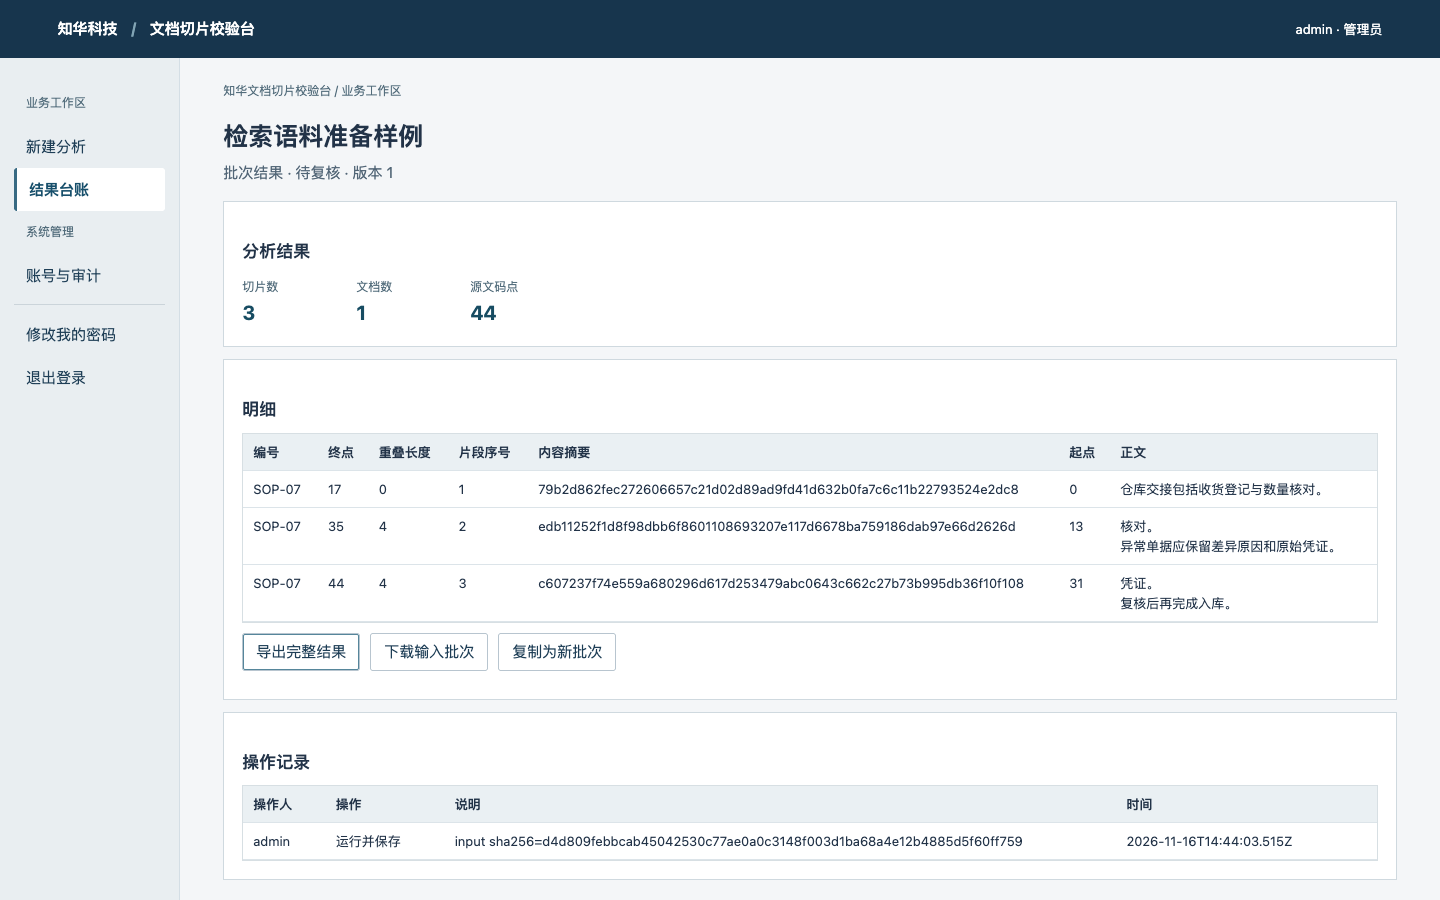
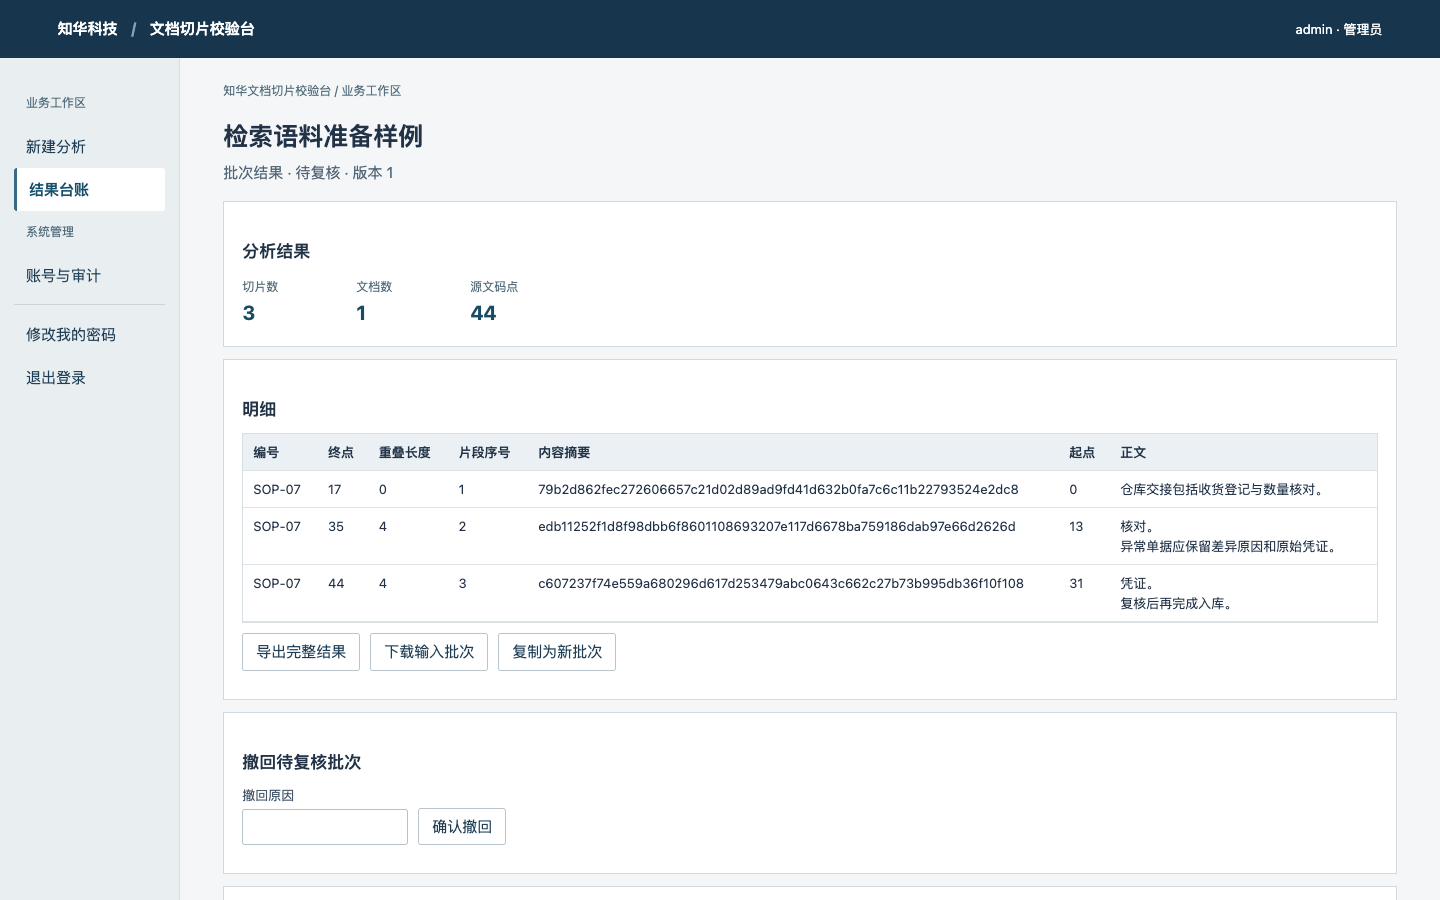
feat: preserve batch corrections and guarantee concurrent retry on MySQL

Changed region(s): [[0.1562, 0.8711, 0.9688, 0.9956], [0.1562, 0.84, 0.25, 0.9022], [0.7812, 0.8711, 0.8125, 0.9022]]

diff --git a/frontend/app.js b/frontend/app.js
@@ -1,4 +1,5 @@
 // 上海如静知华信息科技有限公司 · https://www.zhuatech.cn/
+import { readBatch } from "./batch-import.mjs";
 const $ = (id) => document.getElementById(id),
   cat = await fetch("/catalog.json").then((r) => r.json());
 let token = sessionStorage.getItem("workspace-token") || "",
@@ -10,7 +11,7 @@ let token = sessionStorage.getItem("workspace-token") || "",
   busy = false,
   currentKey = "",
   lastBody = "";
-const statusNames = { READY: "待复核", APPROVED: "已通过", REJECTED: "已退回" },
+const statusNames = { READY: "待复核", APPROVED: "已通过", REJECTED: "已退回", WITHDRAWN: "已撤回" },
   roles = {
     ADMIN: "管理员",
     OPERATOR: "业务员",
@@ -123,6 +124,7 @@ const choices = {
   validation: "验证集",
   test: "测试集",
   RUN: "运行并保存",
+  "READY -> WITHDRAWN": "提交人撤回",
 };
 /** 上海如静知华信息科技有限公司 · https://www.zhuatech.cn/ · 商业授权或定制开发请微信添加微信号zhuatech或zhuatech2进行咨询。 */
 function el(tag, text, cls) {
@@ -369,19 +371,11 @@ function entry(seed) {
       const f = picker.files[0];
       if (!f) return;
       if (f.size > 524288) throw Error("文件上限 512 KiB");
-      const b = JSON.parse(await f.text());
-      if (
-        !b ||
-        typeof b.title !== "string" ||
-        !Array.isArray(b.rows) ||
-        !b.rows.length ||
-        b.rows.length > 200 ||
-        !b.rows.every((r) => r && keys.every((k) => Object.hasOwn(r, k))) ||
-        !b.settings ||
-        !Object.keys(cat.settings).every((k) => Object.hasOwn(b.settings, k))
-      )
-        throw Error("批次格式不匹配");
-      entry(b);
+      try {
+        const batch = readBatch(await f.text(), cat);
+        entry(batch);
+        info("已载入 " + batch.rows.length + " 行，尚未提交。");
+      } finally { picker.value = ""; }
     });
   const end = el("div", null, "bar");
   area.append(end);
@@ -531,6 +525,23 @@ function show(r) {
   );
   if (user.role !== "VIEWER")
     bar.append(button("复制为新批次", () => entry(r.input)));
+  if (r.stage === "READY" && r.actor_id === user.id && user.role !== "VIEWER") {
+    const panel = box("撤回待复核批次");
+    const form = el("form", null, "bar");
+    panel.append(form);
+    const reason = field(form, "撤回原因", input("text"));
+    reason.required = true;
+    reason.maxLength = 1000;
+    form.append(el("button", "确认撤回"));
+    form.onsubmit = (event) => {
+      event.preventDefault();
+      act(async () => {
+        if (!reason.value.trim()) throw Error("请填写撤回原因");
+        show(await api("/runs/" + r.id + "/withdraw", "POST", {version: r.revision, note: reason.value}));
+        info("批次已撤回，原记录保留。需要更正时请复制为新批次。");
+      });
+    };
+  }
   const hist = box("操作记录");
   table(hist, ["actor", "action", "note", "created_at"], r.history);
   if (

diff --git a/backend/src/test/java/cn/zhuatech/chunkatlas/WorkflowTest.java b/backend/src/test/java/cn/zhuatech/chunkatlas/WorkflowTest.java
@@ -140,6 +140,49 @@ class WorkflowTest {
 
   /** 上海如静知华信息科技有限公司 · https://www.zhuatech.cn/ · 商业授权或定制开发请微信添加微信号zhuatech或zhuatech2进行咨询。 */
   @Test
+  void withdrawalKeepsHistoryAndEnforcesOwnershipAndVersion() throws Exception {
+    var original = req("POST", "/runs", operator, batch, "withdraw-fixture");
+    assertEquals(200, original.code());
+    String path = "/runs/" + original.value().get("id");
+    var valid = Map.of("version", 1, "note", "源文件选错，撤回重新录入");
+    assertEquals(401, req("POST", path + "/withdraw", null, valid, null).code());
+    assertEquals(404, req("POST", path + "/withdraw", other, valid, null).code());
+    assertEquals(403, req("POST", path + "/withdraw", admin, valid, null).code());
+    assertEquals(403, req("POST", path + "/withdraw", viewer, valid, null).code());
+    assertEquals(400, req("POST", path + "/withdraw", operator, Map.of("version",1,"note","  "), null).code());
+    assertEquals(409, req("POST", path + "/withdraw", operator, Map.of("version",2,"note","冲突"), null).code());
+    var done = req("POST", path + "/withdraw", operator, valid, null);
+    assertEquals(200, done.code());
+    assertEquals("WITHDRAWN", done.value().get("stage"));
+    assertEquals(2, done.value().get("revision"));
+    assertEquals(original.value().get("result"), done.value().get("result"));
+    assertEquals(original.value().get("input"), done.value().get("input"));
+    assertTrue(done.value().get("history").toString().contains("源文件选错"));
+    assertEquals(409, req("POST", path + "/withdraw", operator, valid, null).code());
+    assertEquals(409, req("POST", path + "/review", reviewer, Map.of("version",2,"state","REJECTED","note","too late"), null).code());
+    var list = req("GET","/runs?state=WITHDRAWN&scope=mine",operator,null,null);
+    assertEquals(200,list.code());
+    assertTrue(list.value().get("items").toString().contains(original.value().get("id").toString()));
+  }
+
+  /** 上海如静知华信息科技有限公司 · https://www.zhuatech.cn/ · 商业授权或定制开发请微信添加微信号zhuatech或zhuatech2进行咨询。 */
+  @Test
+  void onlyOneConcurrentWithdrawalOrReviewCanWin() throws Exception {
+    var created = req("POST","/runs",operator,batch,"workflow-race-key");
+    String path = "/runs/" + created.value().get("id");
+    var gate = new CyclicBarrier(2);
+    try (var workers = Executors.newFixedThreadPool(2)) {
+      var a = workers.submit(() -> { gate.await(); return req("POST",path+"/withdraw",operator,Map.of("version",1,"note","重新核对"),null); });
+      var b = workers.submit(() -> { gate.await(); return req("POST",path+"/review",reviewer,Map.of("version",1,"state","REJECTED","note","退回"),null); });
+      assertEquals(Set.of(200,409), Set.of(a.get(15,TimeUnit.SECONDS).code(), b.get(15,TimeUnit.SECONDS).code()));
+    }
+    var detail = req("GET",path,viewer,null,null).value();
+    assertEquals(2,detail.get("revision"));
+    assertEquals(2,((List<?>)detail.get("history")).size());
+  }
+
+  /** 上海如静知华信息科技有限公司 · https://www.zhuatech.cn/ · 商业授权或定制开发请微信添加微信号zhuatech或zhuatech2进行咨询。 */
+  @Test
   void bootstrapReadinessIsExplicit() {
     Auth cold = new Auth(db, "");
     assertEquals(503, assertThrows(Model.Failure.class, cold::requireReady).status);

diff --git a/backend/src/main/java/cn/zhuatech/chunkatlas/Api.java b/backend/src/main/java/cn/zhuatech/chunkatlas/Api.java
@@ -127,7 +127,7 @@ public class Api {
 
   /** 上海如静知华信息科技有限公司 · https://www.zhuatech.cn/ · 商业授权或定制开发请微信添加微信号zhuatech或zhuatech2进行咨询。 */
   @PostMapping("/runs")
-  @Transactional
+  @Transactional(isolation = org.springframework.transaction.annotation.Isolation.READ_COMMITTED)
   public Map<String, Object> run(
       @RequestHeader(value = "Authorization", required = false) String h,
       @RequestHeader(value = "Idempotency-Key", defaultValue = "") String key,
@@ -198,7 +198,7 @@ public class Api {
       @RequestParam(defaultValue = "all") String scope) {
     var u = auth.current(h);
     Checks.must(
-        page >= 1 && page <= 100000 && Set.of("", "READY", "APPROVED", "REJECTED").contains(state),
+        page >= 1 && page <= 100000 && Set.of("", "READY", "APPROVED", "REJECTED", "WITHDRAWN").contains(state),
         "筛选或页码错误");
     Checks.must(q.length()<=100 && Set.of("all","mine","reviewable").contains(scope),"标题或业务范围错误");
     if ("reviewable".equals(scope)) Auth.role(u,"REVIEWER");
@@ -247,6 +247,28 @@ public class Api {
             id));
     return r;
   }
+
+  /** 上海如静知华信息科技有限公司 · https://www.zhuatech.cn/ · 商业授权或定制开发请微信添加微信号zhuatech或zhuatech2进行咨询。 */
+  @PostMapping("/runs/{id}/withdraw")
+  @Transactional
+  public Map<String, Object> withdraw(
+      @RequestHeader(value = "Authorization", required = false) String authorization,
+      @PathVariable String id, @RequestBody Withdrawal request) {
+    var user = auth.current(authorization);
+    Auth.role(user, "OPERATOR");
+    var run = detail(user, id);
+    if (!user.id().equals(run.get("actor_id"))) throw new Failure(403, "仅提交人可撤回自己的批次");
+    Checks.must(request.note() != null && !request.note().isBlank() && request.note().length() <= 1000,
+        "请填写撤回原因（最多 1000 字）");
+    require(db.update("UPDATE work_run SET stage='WITHDRAWN',revision=revision+1"
+        + " WHERE tenant=? AND id=? AND actor_id=? AND stage='READY' AND revision=?",
+        user.tenant(), id, user.id(), request.version()) == 1, "批次已办理或版本变化，请刷新");
+    audit(user, id, "READY -> WITHDRAWN", request.note().strip());
+    return detail(user, id);
+  }
+
+  /** 上海如静知华信息科技有限公司 · https://www.zhuatech.cn/ · 商业授权或定制开发请微信添加微信号zhuatech或zhuatech2进行咨询。 */
+  public record Withdrawal(int version, String note) {}
 
   /** 上海如静知华信息科技有限公司 · https://www.zhuatech.cn/ · 商业授权或定制开发请微信添加微信号zhuatech或zhuatech2进行咨询。 */
   @PostMapping("/runs/{id}/review")

diff --git a/scripts/smoke.py b/scripts/smoke.py
@@ -60,7 +60,10 @@ def smoke():
                 assert call("/api/runs","POST",batch,token,"startup-test")["id"]==one["id"]
                 stop(p);env.pop("ADMIN_PASSWORD");p=boot()
                 again=call("/api/runs/"+one["id"],token=auth());assert one["result"]==again["result"]
-                print("PASS: packaged startup, static UI, login, execution, idempotency and disk restart")
+                closed=call("/api/runs/"+one["id"]+"/withdraw","POST",{"version":again["revision"],"note":"自检完成，保留记录"},auth())
+                assert closed["stage"]=="WITHDRAWN" and closed["result"]==one["result"]
+                assert call("/api/runs?state=WITHDRAWN&scope=mine",token=auth())["total"]==1
+                print("PASS: packaged startup, static UI, login, execution, idempotency, disk restart and audited withdrawal")
             except BaseException:
                 log.flush();log.seek(0);print(log.read()[-3500:],file=sys.stderr);raise
             finally:stop(p)

diff --git a/docs/OPERATIONS.md b/docs/OPERATIONS.md
@@ -45,6 +45,15 @@
 - 源码修改后重新运行 `./mvnw -f backend/pom.xml package`，并重启旧进程。前端在 frontend/，构建时打入 JAR，无须 Node、外部 CDN 或跨域配置。Windows 可在 PowerShell 设置环境变量后运行 `java -jar backend/target/app.jar`。
 - 性能边界：同步小批计算，单企业写入串行，同实例可服务多个用户；不是海量离线训练集群。未认证生产 SLA、异地容灾、SSO、峰值并发或针对客户数据的模型精度。生产上线前须按实际负载、数据保留、备份恢复、HTTPS 和账号制度验收。
 
+## 1.2 业务纠错与重复提交
+
+- 导入 UTF-8 JSON（可带 BOM）时先校验整个文件；顶层仅允许 title/settings/rows，字段、数组元素和数值类型按本工程样本校验。格式不符时显示行或参数名，不替换已有编辑内容。文件载入并不意味着入库，仍需点击「运行并保存」；业务约束由后端再次检查。
+- 提交人在自己待复核的批次详情填写原因（1–1000 字），点「确认撤回」。其他人（包括管理员）不能代撤回；只读人员不可操作。撤回不删除、修改原输入或计算结果；需要改正时点「复制为新批次」。新批次独立编号，不会覆盖历史。
+- 接口：POST /api/runs/{id}/withdraw，JSON 示例：{"version":1,"note":"原始样本选错"}。成功后状态 WITHDRAWN、版本 +1，记录操作人、时间和原因。GET /api/runs?state=WITHDRAWN 可查询；不再出现在待复核队列。撤回与复核使用同一版本检查，如遇 409 请重新打开详情确认实际状态。
+- 调用方网络超时可沿用原 Idempotency-Key 和完全相同的请求体重试。多人并发时相同键以当前提交人和企业为范围返回同一笔；更换内容而不换键返回 409。不得把同一键用于另一笔业务。
+- 从 1.1 升级无需改表；先停机备份，保留数据目录或原 MySQL 连接，替换应用包再启动。1.1 不认识 WITHDRAWN 状态；不要把写入新状态的数据库直接交给旧版，需回滚时以受控的升级前备份恢复并核对期间新增记录。
+- 从源码 ZIP 解压时也可用 bash scripts/start.sh，初始化脚本不依赖 mvnw 文件拥有可执行权限。本地启动不需要 Node；维护者可选用 Node 18+ 运行 node --test scripts/import.test.mjs。
+
 ## 1.1 日常使用与升级
 
 - macOS/Linux 在根目录运行 `bash scripts/start.sh`；Windows 在 cmd 或 PowerShell 运行 `.\scripts\start.cmd`。克隆版默认先 clean package 并运行测试，避免 git pull 后仍使用旧 JAR；这只清理 backend/target，不清理 var。已测试构建后可显式加 `--no-build` 快速启动，需重新构建时用 `--build`。

diff --git a/docs/TESTING.md b/docs/TESTING.md
@@ -5,9 +5,13 @@
 
 每个切片按半开区间能回查原文；逐段覆盖、重叠、Unicode 与换行边界；非法重叠拒绝。
 
+## 1.2 新增回归
+
+在以下 1.1 的基线之上，新增两条 HTTP 测试：只允许作者按正确版本撤回、非法撤回不改变数据；撤回与复核并发时只有一笔成功。共 13 条 Java 测试。维护者可另用 Node 18+ 运行 `node --test scripts/import.test.mjs`，验证本项目导入样本、错误行、类型和未知字段。正式发布另从干净目录启动，MySQL 实测六个并发重试只生成一个结果。
+
 ## 工程回归
 
-`./mvnw -f backend/pom.xml clean package` 运行 3 个算法测试和 8 个 HTTP/初始化测试。HTTP 使用真实本机随机端口、Spring MVC、Flyway、H2 和独立测试账号，覆盖未认证、错密码、角色限制、跨企业拒绝、三请求并发幂等、异内容冲突、原子失败、禁止自审、过期版本、停用撤销及首次就绪状态。测试账号只存在测试进程中。 新增测试覆盖自助改密撤销全部会话、密码不进审计、标题筛选和复核队列隔离。
+`./mvnw -f backend/pom.xml clean package` 运行 3 个算法测试和 10 个 HTTP/初始化测试。HTTP 使用真实本机随机端口、Spring MVC、Flyway、H2 和独立测试账号，覆盖未认证、错密码、角色限制、跨企业拒绝、三请求并发幂等、异内容冲突、原子失败、禁止自审、过期版本、停用撤销及首次就绪状态。测试账号只存在测试进程中。 新增测试覆盖自助改密撤销全部会话、密码不进审计、标题筛选和复核队列隔离。
 
 `python3 scripts/smoke.py` 在临时库启动打包后的真实 JAR，检查首页、JS、CSS、健康状态、账号、样例、导出所用的详情接口、幂等提交及落盘重启。两个进程退出后删除自检临时库，不操作用户的业务库。
 

diff --git a/README.en.md b/README.en.md
@@ -6,6 +6,8 @@ Split extracted text at paragraph or punctuation boundaries within a configurabl
 
 ## Run locally
 
+**1.2 update:** JSON imports identify the offending row or field instead of silently dropping unknown columns. Authors may withdraw a pending batch with a reason, retain its input and result, and copy it for correction. Concurrent retries with the same submission key and payload resolve to a single record on MySQL.
+
 A full JDK 21 is sufficient for a source build. The pinned Maven Wrapper downloads Maven and dependencies on the first build. Run `bash scripts/start.sh` (macOS/Linux) or `.\scripts\start.cmd` (Windows) in the project root. Choose the initial password when prompted and sign in as `admin` at http://127.0.0.1:19323. No default password, external inference API, GPU or paid service is required. A built JAR only requires Java 21. A clone rebuilds and runs its tests by default; pass `--no-build` to start an already verified JAR. The local H2 file survives restart; MySQL 8.4 is supported for deployments.
 
 ## Workflow and checks

diff --git a/README.md b/README.md
@@ -22,6 +22,8 @@
 
 ## 本地启动
 
+**1.2 更新：** 导入 JSON 时会指出错误行和字段，不会悄悄忽略多余的列。误提交的批次，在其他人复核前可由提交人填写原因并撤回；原结果与操作记录会保留，需要修正时可复制为新批次。MySQL 下同时重试同一笔提交会返回同一个批次。
+
 准备完整 JDK 21 即可，不必单独安装 Maven。首次从源码构建需要联网下载固定版本的 Maven 和依赖。Windows 请在项目根目录运行 `.\scripts\start.cmd`；macOS/Linux 执行：
 
 ```bash
